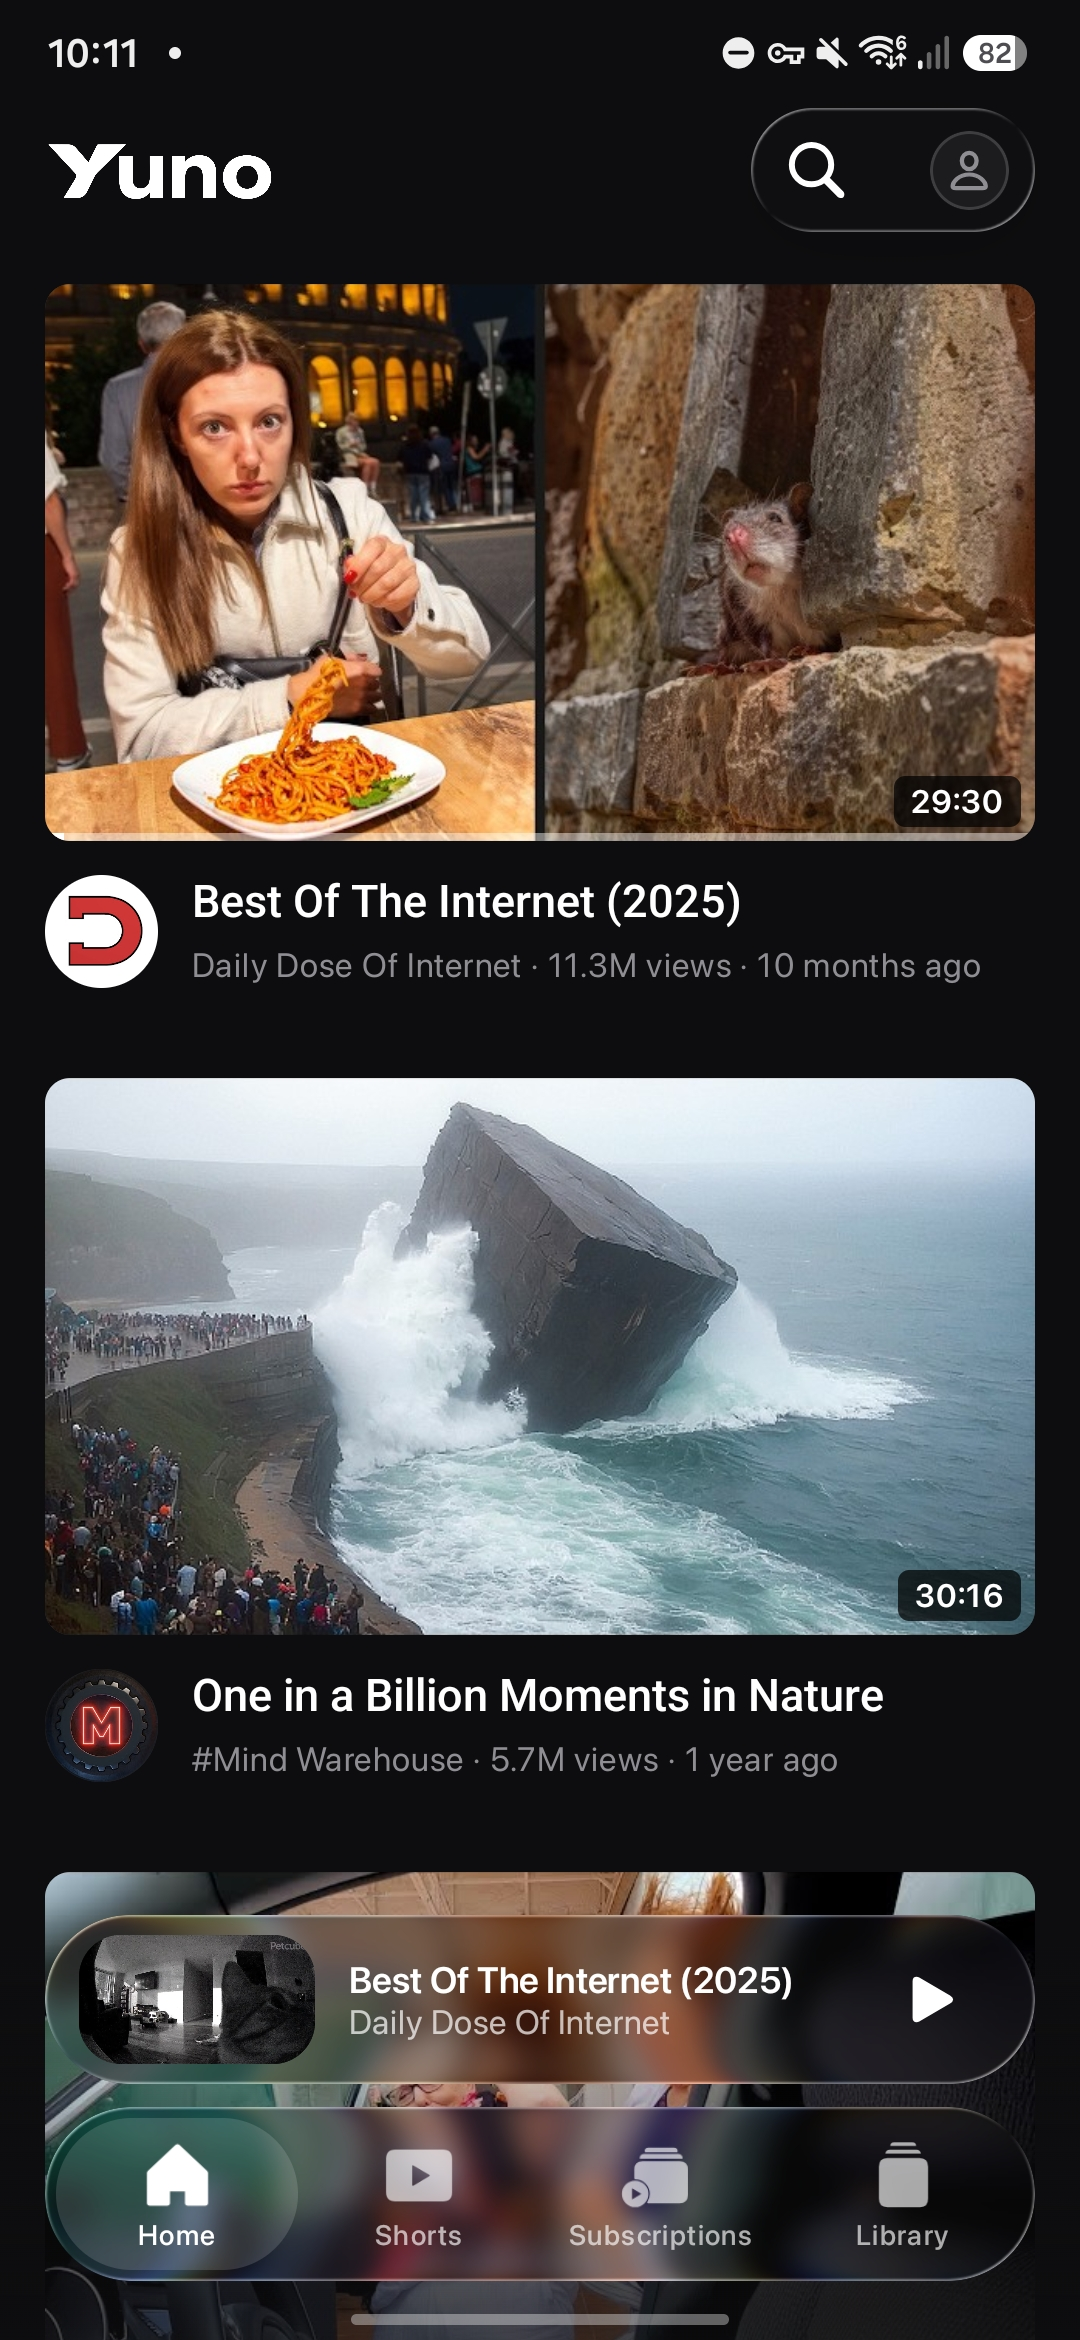
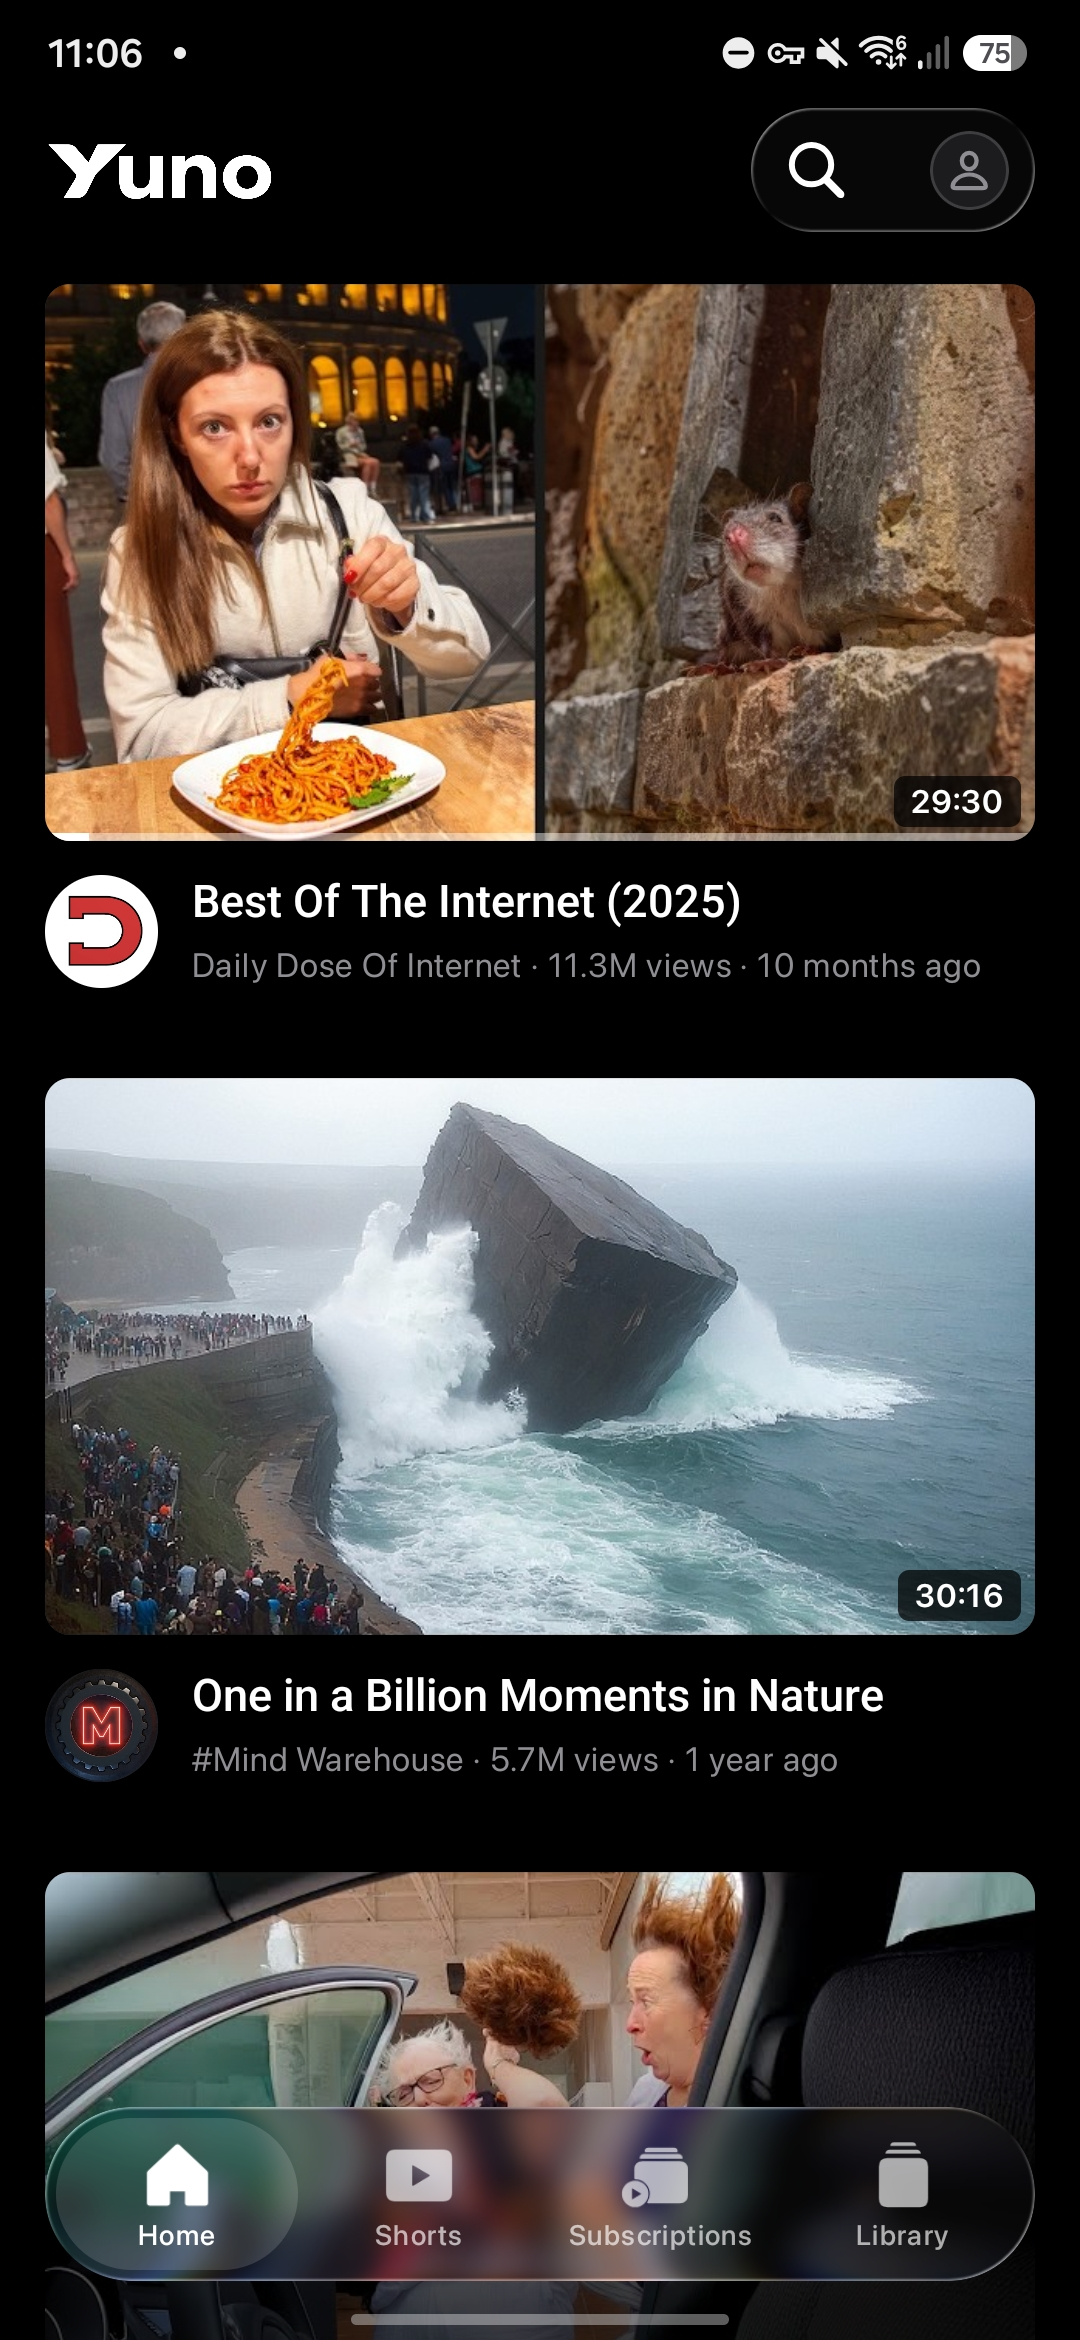
Use pure black and white page backgrounds
Use the theme background color across app pages, system bars, and the cold-start window so they match the approved black-and-white theme. Refresh the Home, Search, and Shorts screenshots.

diff --git a/app/src/main/java/com/yuno/MainActivity.kt b/app/src/main/java/com/yuno/MainActivity.kt
@@ -358,7 +358,7 @@ fun YunoApp() {
     SideEffect { navScroll.onBeforeToggle = { SharedVideoTexture.captureFrame() } }
     // Shorts is a vertical swipe, not a list: that swipe must not fold the glass bar.
     LaunchedEffect(tab) { if (tab == Tab.Shorts) navScroll.expand() }
-    val windowBackground = c.surface
+    val windowBackground = c.background
     val paintBackdrop: ContentDrawScope.() -> Unit = remember(windowBackground) {
         {
             drawRect(windowBackground)
@@ -374,7 +374,7 @@ fun YunoApp() {
         .hazeSource(hazeState)
         .then(if (glassOn) Modifier.layerBackdrop(appBackdrop) else Modifier)
         .then(if (glassOn && tab != Tab.Shorts) Modifier.nestedScroll(navScroll) else Modifier)
-    BoxWithConstraints(Modifier.fillMaxSize().background(c.surface)) {
+    BoxWithConstraints(Modifier.fillMaxSize().background(c.background)) {
         val stageFloor = maxOf(StageMinAspect, constraints.maxWidth / (constraints.maxHeight * StageMaxHeightShare))
         SideEffect { player.stageFloor = stageFloor }
         val sharedSurface = remember(player) {
@@ -490,7 +490,7 @@ fun YunoApp() {
         TopChromeLayer(topChrome, Modifier.align(Alignment.TopCenter).fillMaxWidth())
 
         // Ledgii's bottom vignette
-        val pageColor = c.surface
+        val pageColor = c.background
         val vignette = remember(pageColor) { vignetteBrush(pageColor, opaqueAtTop = false) }
         Box(
             Modifier

diff --git a/app/src/main/java/com/yuno/SignIn.kt b/app/src/main/java/com/yuno/SignIn.kt
@@ -63,7 +63,7 @@ fun SignInScreen(onDone: () -> Unit, onCancel: () -> Unit) {
     var finishing by remember { mutableStateOf(false) }
     var error by remember { mutableStateOf<String?>(null) }
 
-    Column(Modifier.fillMaxSize().background(c.surface).statusBarsPadding().navigationBarsPadding()) {
+    Column(Modifier.fillMaxSize().background(c.background).statusBarsPadding().navigationBarsPadding()) {
         Row(Modifier.fillMaxWidth().padding(horizontal = PageGutter, vertical = 8.dp), verticalAlignment = Alignment.CenterVertically) {
             Box(Modifier.size(44.dp).pressable(onClick = onCancel), contentAlignment = Alignment.Center) {
                 Icon(SfIcons.Close, "Cancel")
@@ -119,7 +119,7 @@ fun SignInScreen(onDone: () -> Unit, onCancel: () -> Unit) {
             )
             if (finishing || error != null) {
                 Column(
-                    Modifier.fillMaxSize().background(c.surface).padding(32.dp),
+                    Modifier.fillMaxSize().background(c.background).padding(32.dp),
                     horizontalAlignment = Alignment.CenterHorizontally,
                     verticalArrangement = androidx.compose.foundation.layout.Arrangement.Center,
                 ) {

diff --git a/app/src/main/java/com/yuno/Screens.kt b/app/src/main/java/com/yuno/Screens.kt
@@ -382,7 +382,7 @@ fun PlaylistScreen(
     val avatarSeed = remember(channelAvatarSeed) { channelAvatarSeed }
     val listState = rememberLazyListState()
     val top = pageContentTop()
-    Box(Modifier.fillMaxSize().background(MaterialTheme.colorScheme.surface)) {
+    Box(Modifier.fillMaxSize().background(MaterialTheme.colorScheme.background)) {
         Box(Modifier.fillMaxSize()) {
         if (feed.videos.isEmpty() && !feed.loading && feed.error == null && !feed.hasMore) {
             Column(Modifier.padding(contentPadding.withTop(top))) {
@@ -545,7 +545,7 @@ fun SearchScreen(
     // Suggestions win while drafting; history when focused/empty and not mid-suggestion draft.
     val showHistory = !draft && history.isNotEmpty() && (focused || state.submitted.isEmpty())
     val bodyTop = pageBodyTop()
-    Box(Modifier.fillMaxSize().background(c.surface).overlayTouchBlock()) {
+    Box(Modifier.fillMaxSize().background(c.background).overlayTouchBlock()) {
         Box(Modifier.fillMaxSize()) {
         val listShown = showHistory || (draft && state.suggestions.isNotEmpty()) ||
             (state.results.isNotEmpty() && state.error == null)

diff --git a/app/src/main/java/com/yuno/PlayerUi.kt b/app/src/main/java/com/yuno/PlayerUi.kt
@@ -215,7 +215,7 @@ fun PlayerScreen(
         }
     }
 
-    val pageColor = c.surface
+    val pageColor = c.background
     DisposableEffect(dock) { onDispose { dock.attached = false } }
     Box(Modifier.fillMaxSize()) {
         // The page fades in behind the video. The video itself stays solid and
@@ -229,7 +229,7 @@ fun PlayerScreen(
         Box(
             Modifier.fillMaxWidth().height(520.dp)
                 .playerPageFade { dock.pageAlpha(sheetMotion.holding) }
-                .background(Brush.verticalGradient(listOf(c.primaryContainer.copy(alpha = 0.75f), c.surface))),
+                .background(Brush.verticalGradient(listOf(c.primaryContainer.copy(alpha = 0.75f), c.background))),
         )
         ActionMessage(
             state,

diff --git a/app/src/main/java/com/yuno/Theme.kt b/app/src/main/java/com/yuno/Theme.kt
@@ -193,7 +193,7 @@ fun isDarkTheme(): Boolean = when (ThemeSettings.mode) {
 fun YunoTheme(content: @Composable () -> Unit) {
     val dark = isDarkTheme()
     val scheme = if (dark) DarkColors else LightColors
-    SystemBars(dark, scheme.surface)
+    SystemBars(dark, scheme.background)
     MaterialTheme(colorScheme = scheme, shapes = ExpressiveShapes, typography = AppTypography) {
         CompositionLocalProvider(
             // No tap ripples anywhere: press feedback is the scale-down from Motion.kt.

diff --git a/app/src/main/java/com/yuno/Channel.kt b/app/src/main/java/com/yuno/Channel.kt
@@ -125,7 +125,7 @@ fun ChannelScreen(state: ChannelState, contentPadding: PaddingValues, onBack: ()
     }
     LaunchedEffect(nearEnd, state.videos.size) { if (nearEnd && state.videos.isNotEmpty()) state.loadMore() }
     val top = pageContentTop()
-    Box(Modifier.fillMaxSize().background(c.surface)) {
+    Box(Modifier.fillMaxSize().background(c.background)) {
         Box(Modifier.fillMaxSize()) {
         val d = state.details
         when {

diff --git a/app/src/main/java/com/yuno/Onboarding.kt b/app/src/main/java/com/yuno/Onboarding.kt
@@ -107,7 +107,7 @@ fun OnboardingScreen(onFinished: () -> Unit, onSignIn: () -> Unit) {
     Column(
         Modifier
             .fillMaxSize()
-            .background(c.surface)
+            .background(c.background)
             .statusBarsPadding()
             .navigationBarsPadding(),
     ) {
